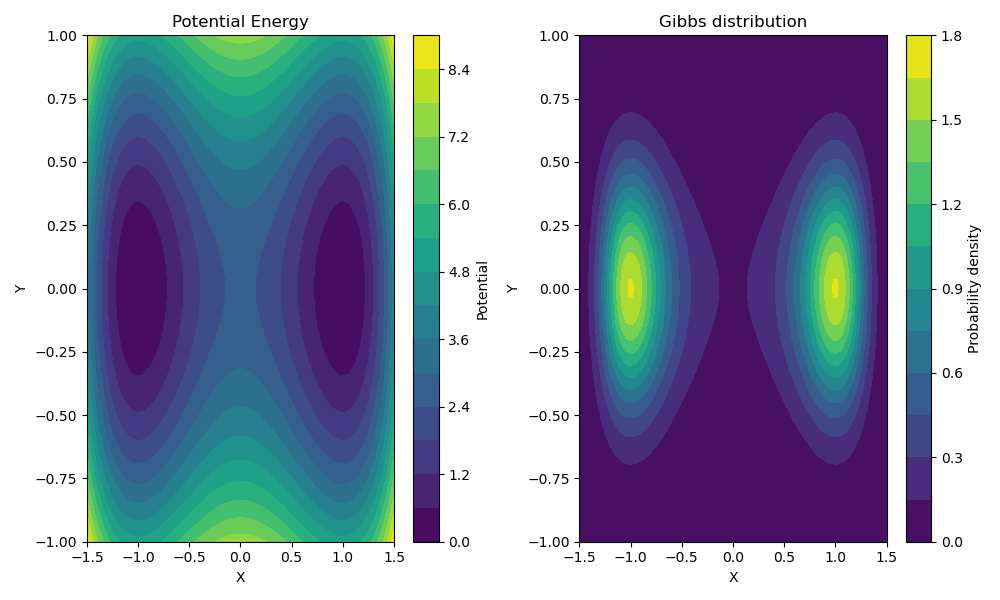
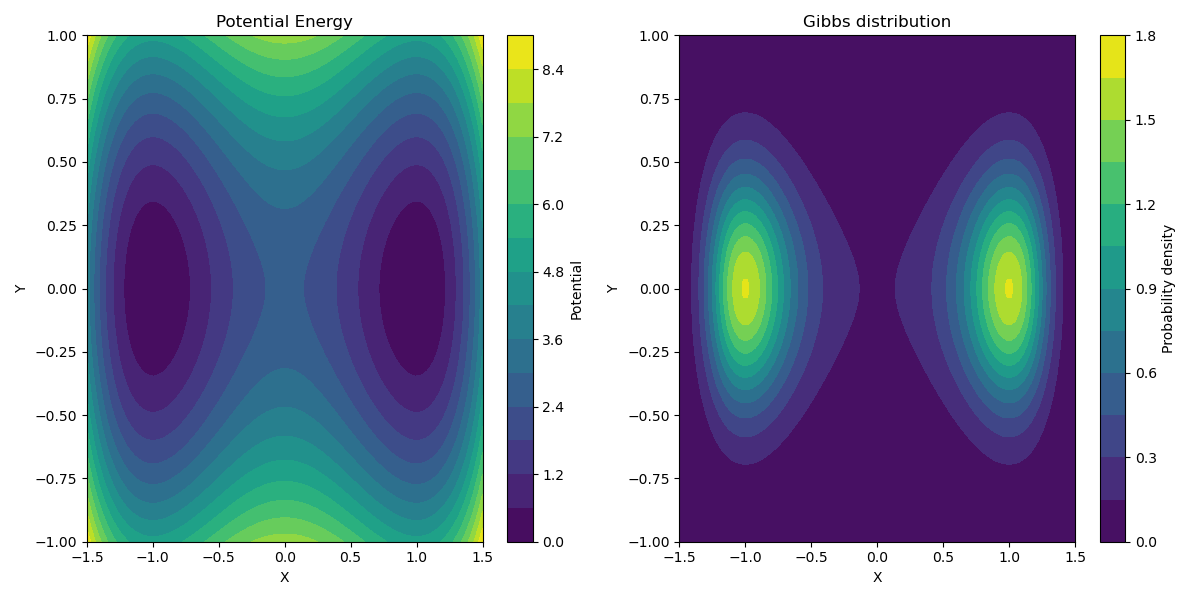
langevin ready to start

diff --git a/doublewell/plot.py b/doublewell/plot.py
@@ -54,7 +54,7 @@ if not os.path.exists('doublewell/images'):
    os.makedirs('doublewell/images')
 
 # Visualize the potential and the Giggs distribution
-plt.figure(figsize=(10, 6))
+plt.figure(figsize=(12, 6))
 plt.subplot(1, 2, 1)
 plt.contourf(X, Y, V, levels=15, cmap='viridis')
 plt.colorbar(label='Potential')

diff --git a/main.py b/main.py
@@ -1,13 +1,11 @@
-# set parameters
-beta = 1
-dx = 0.03
-Niter = 3000
-
-
 # execute the code
-solve = 3
+solve = 2
 
 if solve == 1:
+    # set parameters
+    beta = 1
+    dx = 0.03
+    Niter = 3000
     from doublewell import run
 elif solve == 2:
     from doublewell import plot
